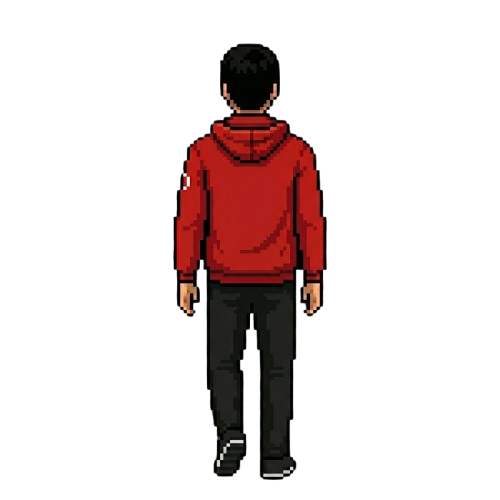
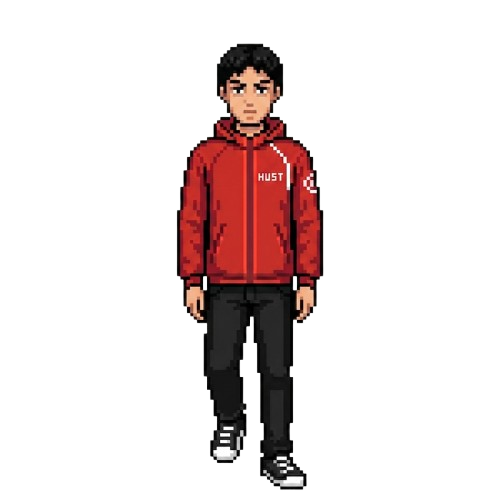
add player animation

Changed region(s): [[0.33, 0.09, 0.66, 0.75], [0.42, 0.78, 0.63, 0.99], [0.45, 0.6, 0.48, 0.63]]

diff --git a/src/entity/Player.java b/src/entity/Player.java
@@ -40,21 +40,28 @@ public class Player extends Entity {
         aimAngle = 0;
         maxHealth = 300;
         health = maxHealth;
+        direction = "down";
     }
 
     // Tải hình ảnh của Player
     public void getPlayerImage() {
         try {
-            var is = getClass().getResourceAsStream("/player/player.png");
-            if (is == null) {
-                System.out.println("LỖI: Không tìm thấy ảnh nhân vật!");
-                return;
-            }
-            playerImage = ImageIO.read(is);
-        } catch (IOException e) {
-            System.out.println("LỖI: Không đọc được ảnh nhân vật!");
-            e.printStackTrace();
+            up1 = ImageIO.read(getClass().getResourceAsStream("/player/up1.png"));
+            up1 = ImageIO.read(getClass().getResourceAsStream("/player/up1.png"));
+
+
+            down1 = ImageIO.read(getClass().getResourceAsStream("/player/down1.png"));
+            down2 = ImageIO.read(getClass().getResourceAsStream("/player/down2.png"));
+
+            left1 = ImageIO.read(getClass().getResourceAsStream("/player/left1.png"));
+            left2 = ImageIO.read(getClass().getResourceAsStream("/player/left2.png"));
+
+            right1 = ImageIO.read(getClass().getResourceAsStream("/player/right1.png"));
+            right2 = ImageIO.read(getClass().getResourceAsStream("/player/right2.png"));
+            } catch (IOException ex) {
+            throw new RuntimeException(ex);
         }
+
     }
 
     // Cập nhật trạng thái của Player mỗi frame
@@ -62,11 +69,31 @@ public class Player extends Entity {
         vx = 0;
         vy = 0;
 
-        if (keyH.upPressed)    vy -= speed;
-        if (keyH.downPressed)  vy += speed;
-        if (keyH.leftPressed)  vx -= speed;
-        if (keyH.rightPressed) vx += speed;
-
+        if (keyH.upPressed) {
+            vy -= speed;
+            direction = "up";
+        }
+        if (keyH.downPressed) {
+            vy += speed;
+            direction = "down";
+        }
+        if (keyH.leftPressed) {
+            vx -= speed;
+            direction = "left";
+        }
+        if (keyH.rightPressed) {
+            vx += speed;
+            direction = "right";
+        }
+        spriteCounter++;
+        if (spriteCounter > 100) {
+            if (spriteNum == 1) {
+                spriteNum = 2;
+            }
+            else if (spriteNum == 2) {
+                spriteNum = 1;
+            }
+        }
         // Normalize diagonal: giữ tốc độ bằng nhau mọi hướng
         if (vx != 0 && vy != 0) {
             vx *= DIAGONAL_FACTOR;
@@ -143,7 +170,43 @@ public class Player extends Entity {
         int screenX = (int) (worldX - cameraX);
         int screenY = (int) (worldY - cameraY);
 
-        g2.drawImage(playerImage, screenX, screenY, 80, 80, null);
+        BufferedImage img = null;
+        switch (direction) {
+            case "up":
+                if (spriteNum == 1) {
+                    img = up1;
+                }
+                if (spriteNum == 2) {
+                    img = up2;
+                }
+                break;
+            case "down":
+                if (spriteNum == 1) {
+                    img = down1;
+                }
+                if (spriteNum == 2) {
+                    img = down2;
+                }
+                break;
+            case "left":
+                if (spriteNum == 1) {
+                    img = left1;
+                }
+                if (spriteNum == 2) {
+                    img = left2;
+                }
+                break;
+            case "right":
+                if (spriteNum == 1) {
+                    img = right1;
+                }
+                if (spriteNum == 2) {
+                    img = right2;
+                }
+                break;
+
+        }
+        g2.drawImage(img, screenX, screenY, 80, 80, null);
 
         drawHealthBar(g2, screenX, screenY - 16, 80, 14);
         drawAimingIndicator(g2, screenX + 40, screenY + 40);

diff --git a/src/entity/Entity.java b/src/entity/Entity.java
@@ -1,5 +1,6 @@
 package entity;
 
+import java.awt.image.BufferedImage;
 import java.util.ArrayList;
 import java.util.List;
 
@@ -22,4 +23,10 @@ public class Entity {
     // Health
     public int maxHealth = 100; // Máu tối đa
     public int health = 100; // Máu hiện tại
+
+    public BufferedImage up1, up2, down1, down2, left1, left2, right1, right2;
+    public String direction;
+
+    public int spriteCounter = 0;
+    public int spriteNum = 1;
 }

diff --git a/src/main/Main.java b/src/main/Main.java
@@ -20,6 +20,7 @@ public class Main {
         frame.setLocationRelativeTo(null); // Hiển thị ở giữa màn hình
         frame.setVisible(true);
 
+
         // Khởi động vòng lặp game
         gamePanel.startGameThread();
     }
